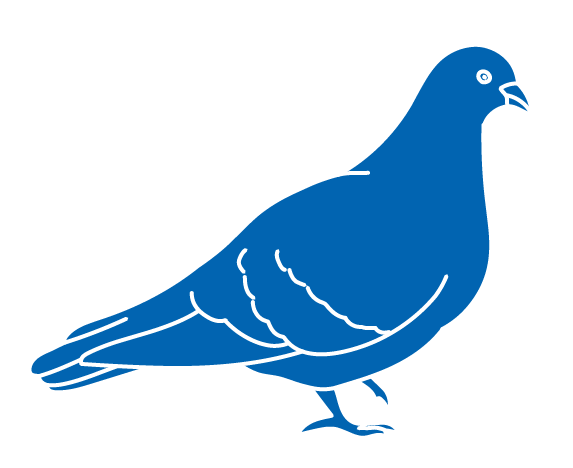
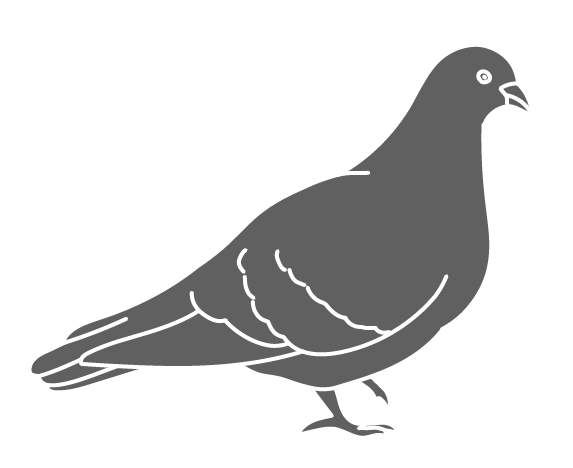
change blue pidgeon to grey

Changed region(s): [[0.0593, 0.0897, 0.9197, 0.9274]]

diff --git a/M2ng_Meioos/app.js b/M2ng_Meioos/app.js
@@ -304,7 +304,7 @@ async function rightAnswer(id) {
         } else {
             game_text.innerHTML="Хромосомы упакованы в плотные палочки. Двухроматидные хромосомы находят свои пары, одна из которых унаследована от отца, а другая от матери. Хромосомы прилепляются одна к другой и обмениваются частями равной длины. Здесь перемешивается генетический материал, и поэтому каждая образующаяся половая клетка генетически уникальна. Центросомы, начинающие тянуть хромосомы своими нитями, движутся к противоположным концам клетки.";
         }
-        phase_animation.setAttribute("src", "assets/bears.mp4");
+        //phase_animation.setAttribute("src", "assets/bears.mp4");
     } else if (id === "d2") {
         if (lang === 0) {
             game_text.innerHTML="Kõik kromosoomid liiguvad paaridena ühele tasapinnale. Sääse puhul on neid kuus. Tsentrosoomid on raku poolustele jõudnud. Tsentrosoomidest lähtuvad niidikesed kinnituvad kromosoomide keskosa külge, kus kromatiidid on teineteisega ühendatud.";
@@ -313,7 +313,7 @@ async function rightAnswer(id) {
         } else {
             game_text.innerHTML="Все хромосомы выстраиваются парами в одной плоскости. У комара хромосом шесть. Центросомы достигли полюсов клетки. Нити, исходящие из центросом, прикрепляются к центральной части хромосом, где хроматиды соединены друг с другом.";
         }
-        phase_animation.setAttribute("src", "assets/bears.mp4");
+        //phase_animation.setAttribute("src", "assets/bears.mp4");
     } else if (id === "d3") {
         if (lang === 0) {
             game_text.innerHTML="Kuna niidikesed lühenevad, siis tõmmatakse kromosoomide paarilised teineteisest lahku tsentrosoomide poole, raku poolustele. Kromosoomid on endiselt kahekromatiidilised.";
@@ -322,7 +322,7 @@ async function rightAnswer(id) {
         } else {
             game_text.innerHTML="Так как нити укорачиаются, то парные хромосомы отделяются друг от друга и растаскиваются в сторону центросом, к полюсам клетки. Хромосомы по-прежнему двухроматидные.";
         }
-        phase_animation.setAttribute("src", "assets/bears.mp4");
+        //phase_animation.setAttribute("src", "assets/bears.mp4");
     } else if (id === "d4") {
         if (lang === 0) {
             game_text.innerHTML = "Kuna  paarilised kromosoomid on teineteisest lahutatud, siis on kummaski tekkivas rakus poole vähem kromosoome. Tekivad rakumembraanid, kuid rakud hakkavad kohe uuesti jagunema.";
@@ -331,7 +331,7 @@ async function rightAnswer(id) {
         } else {
             game_text.innerHTML = "Так как парные хромосомы отделены друг от друга, то в каждой образующейся клетке хромосом вдвое меньше. Образуются клеточные мембраны, однако клетки сразу начинают делиться снова.";
         }
-        phase_animation.setAttribute("src", "assets/bears.mp4");
+        //phase_animation.setAttribute("src", "assets/bears.mp4");
     } else if (id === "d5") {
         if (lang === 0) {
             game_text.innerHTML="Enne teist jagunemist ei toimu DNA kahekordistumist. Sääse puhul on rakus kolm kromosoomi. Kromosoomid on endiselt kahekromatiidilised. Tuumamembraan laguneb. Tsentrosoomid liiguvad raku poolustele.";
@@ -340,7 +340,7 @@ async function rightAnswer(id) {
         } else {
             game_text.innerHTML="До второго деления удвоения ДНК не происходит. У комара в клетке три хромосомы. Хромосомы по-прежнему двухроматидные. Ядерная мембрана распадается. Центросомы движутся к полюсам клетки.";
         }
-        phase_animation.setAttribute("src", "assets/bears.mp4");
+        //phase_animation.setAttribute("src", "assets/bears.mp4");
         document.getElementById("n1").style.visibility = "visible";
         document.getElementById("n1").style.WebkitAnimation = "nAnswerDropped 2s";
     } else if (id === "d6") {
@@ -352,7 +352,7 @@ async function rightAnswer(id) {
         } else {
             game_text.innerHTML="Все двухроматидные хромосомы движутся в одну плоскость, а центросомы достигли полюсов клетки. Нити, исходящие из центросом, прикрепляются к центральной части хромосом, где хроматиды соединены друг с другом.";
         }
-        phase_animation.setAttribute("src", "assets/bears.mp4");
+        //phase_animation.setAttribute("src", "assets/bears.mp4");
         document.getElementById("n2").style.visibility = "visible";
         document.getElementById("n2").style.WebkitAnimation = "nAnswerDropped 2s";
     } else if (id === "d7") {
@@ -363,7 +363,7 @@ async function rightAnswer(id) {
         } else {
             game_text.innerHTML="Так как нити укорачиваются, то хроматиды хромосом отделяются друг от друга и растаскиваются в сторону центросом, к полюсам клетки. Теперь хромосомы снова становятся однохроматидными.";
         }
-        phase_animation.setAttribute("src", "assets/bears.mp4");
+        //phase_animation.setAttribute("src", "assets/bears.mp4");
         document.getElementById("n3").style.visibility = "visible";
         document.getElementById("n3").style.WebkitAnimation = "nAnswerDropped 2s";
     } else if (id === "d8") {
@@ -374,7 +374,7 @@ async function rightAnswer(id) {
         } else {
             game_text.innerHTML="Хромосомы, теперь однохроматидные, начинают расщепляться. Образуются клеточные мембраны. В образовавшихся половых клетках число хромосом уменьшилось в два раза. У комара три хромосомы, и они однохроматидные. Все четыре половые клетки генетически уникальны, так как между парными частями хромосом произошёл обмен.";
         }
-        phase_animation.setAttribute("src", "assets/bears.mp4");
+        //phase_animation.setAttribute("src", "assets/bears.mp4");
         document.getElementById("n4").style.visibility = "visible";
         document.getElementById("n4").style.WebkitAnimation = "nAnswerDropped 2s";
     }

diff --git a/M2ng_K2bi/index.html b/M2ng_K2bi/index.html
@@ -1,15 +1,75 @@
 <!DOCTYPE html>
 <html lang="en-us">
+
+
   <head>
     <meta charset="utf-8">
     <meta http-equiv="Content-Type" content="text/html; charset=utf-8">
     <title>Unity WebGL Player | kuusk</title>
+
     <script src="Build/UnityLoader.js"></script>
+
     <script>
-      var gameInstance = UnityLoader.instantiate("gameContainer", "Build/kuuskweb.json");
+
     </script>
+
   </head>
+
+
   <body>
-    <div id="gameContainer" style="width: 1920px; height: 1080px; margin: auto"></div>
+    <div id="gameContainer" style="position:fixed; top: 0; left: 0; width: 1920px; height: 1080px; margin: 0"></div>
+
+    <div id="chooseLang">
+        <div class="mang" id="mang1"><img src="assets/eestiK_btn.svg" onclick="chooseLang(0)"><p>Eesti keel</p></div>
+        <div class="mang" id="mang2"><img src="assets/ingliseK_btn.svg" onclick="chooseLang(1)"><p>English</p></div>
+        <div class="mang" id="mang3"><img src="assets/veneK_btn.svg" onclick="chooseLang(2)"><p>Русский</p></div>
+    </div>
+    <style>
+
+        #chooseLang {
+            position: fixed;
+            top: 0;
+            left: 0;
+            width: 100%;
+            height: 100%;
+            background-color: black;
+            z-index: 4;
+        }
+
+        .mang {
+            position: absolute;
+            top: 400px;
+        }
+
+        #mang1 {
+            left: 200px;
+        }
+
+        #mang2 {
+            left: 810px;
+        }
+
+        #mang3 {
+            left: 1420px;
+        }
+
+        .mang img {
+            width: 300px;
+            height: 300px;
+            border: solid white 3px;
+        }
+
+    </style>
+
+    <script>
+
+        function chooseLang(langNr) {
+            document.getElementById("chooseLang").style.visibility = "hidden";
+            let gameInstance = UnityLoader.instantiate("gameContainer", "Build/kuuskweb.json");
+        }
+
+    </script>
   </body>
+
+
 </html>

diff --git a/M2ng_Meioos/index.html b/M2ng_Meioos/index.html
@@ -39,7 +39,7 @@
 
     <p id="game_text"></p>
     <p id="start" onclick="startGame()"></p>
-    <video id="phase_animation" width="300" height="300" autoplay loop></video>
+    <video id="phase_animation" width="300" height="300" autoplay loop muted></video>
 </div>
 
 <img src="assets/s22sk.png" id="s22sk">

diff --git a/M2ng_Tuvid/index.html b/M2ng_Tuvid/index.html
@@ -45,7 +45,7 @@
 <div id="seletus_lahter">
     <p id="tase_tekst">I TASE</p>
     <p id="nimi_tekst">ÕPILANE</p>
-    <p id="seletus_lahtri_tekst">Siin on ka mingi tekst</p>
+    <p id="seletus_lahtri_tekst"></p>
 </div>
 
 <div class="phase" id="phase1">

diff --git a/M2ng_Meioos/style.css b/M2ng_Meioos/style.css
@@ -163,6 +163,7 @@ body {
 
 #game_animation #phase_animation {
     position: absolute;
+    visibility: hidden;
     left: 70%;
     top: 40px;
     width: 25%;
